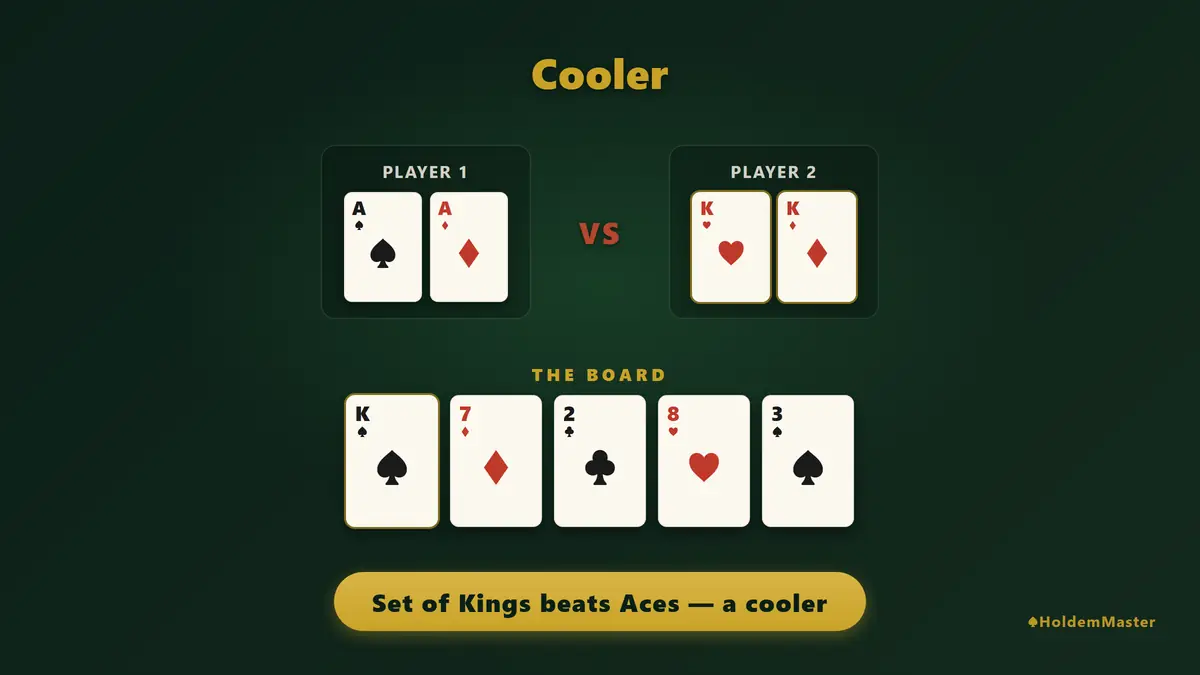
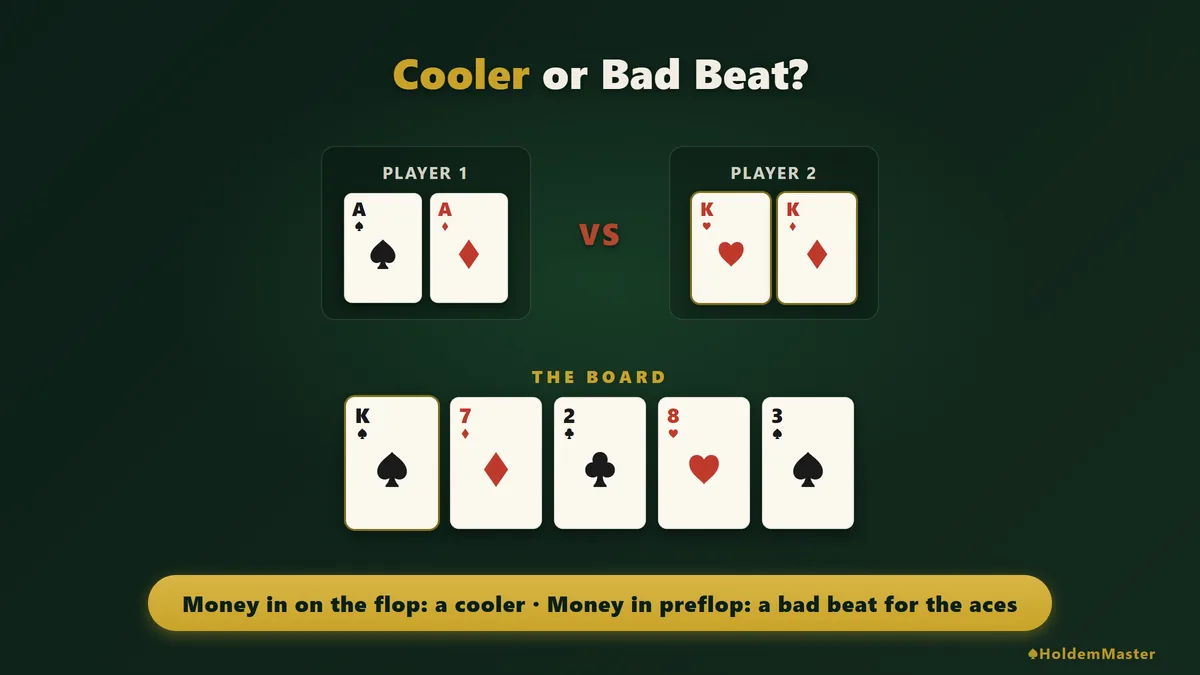
fix(images): 대기열 45 — 18로케일 공용 이미지 2장 §13 정정 + 대기열 41 ③ 판정 등재
- holdem-hand-rankings-board-puzzle.webp: AI 실사판이 보드 6장(K♠K♦K♥A♦A♠2♠ — A♦ 잉여)이라 練習3 「포켓 AA → 더 큰 풀하우스」 분기가 붕괴(zh-hant §5-33) → HTML+Playwright 재렌더(scripts/gen-…html 신설) · 보드 정확히 K♠ K♦ K♥ A♠ 2♠ + 홀카드 뒷면 2장 · 58KB → 18KB
- holdem-cooler-vs-badbeat.webp: 제목 「Cooler」·배너 「Set of Kings beats Aces — a cooler」가 爆冷門 상황을 쿨러로 단정(zh-hant §5-26) → 「Cooler or Bad Beat?」 + 「Money in on the flop: a cooler · Money in preflop: a bad beat for the aces」 · 워터마크 배너 겹침 해소
- 두 장 Read 육안 검수(철자·카드 중복 0) · check:images ✅ · check:image-reuse 🔴 0
- docs/locale-intentional-diffs.md: zh-hant blind-meaning 행동 순서 FAQ 부재 = 의도적(본문 H2 표가 답) 등재 — MA-121 ③ 회신 근거. MA-121 ④(진행 파일 「헤드 머지 대기」 낡음)는 이미 갱신돼 잔존 0

Claude-Session: https://claude.ai/code/session_01VCSUybNMmpLpknJtQS54FD

diff --git a/scripts/gen-holdem-hand-rankings-board-puzzle.html b/scripts/gen-holdem-hand-rankings-board-puzzle.html
@@ -1,0 +1,64 @@
+<!DOCTYPE html>
+<html lang="en">
+<head>
+<meta charset="UTF-8">
+<title>Read the Board</title>
+<style>
+  * { margin: 0; padding: 0; box-sizing: border-box; }
+  html, body { background: #0B1F17; }
+  .stage {
+    width: 1200px; height: 675px; overflow: hidden; position: relative; padding: 44px;
+    background: radial-gradient(ellipse 900px 500px at 50% -10%, rgba(46,125,70,0.26), rgba(46,125,70,0) 65%),
+                linear-gradient(160deg, #0B1F17 0%, #13291D 100%);
+    font-family: -apple-system, BlinkMacSystemFont, "Segoe UI", Roboto, Helvetica, Arial, sans-serif;
+    display: flex; flex-direction: column; align-items: center; justify-content: space-between;
+  }
+  .kicker { color: #C9A227; font-size: 15px; font-weight: 700; letter-spacing: .28em; text-transform: uppercase; text-align: center; margin-bottom: 8px; }
+  h1 { color: #F2EEE3; font-size: 44px; font-weight: 800; text-align: center; text-shadow: 0 2px 12px rgba(0,0,0,.45); }
+  h1 .gold { color: #C9A227; }
+  .board-wrap { position: relative; display: flex; flex-direction: column; align-items: center; gap: 14px; }
+  .group-label { color: #C9A227; font-size: 17px; font-weight: 800; letter-spacing: 4px; }
+  .cards { display: flex; gap: 16px; }
+  .card { position: relative; width: 108px; height: 154px; background: linear-gradient(175deg,#FDFBF4 0%,#F2EEE3 100%); border-radius: 10px; box-shadow: 0 6px 14px rgba(0,0,0,.45), 0 1px 3px rgba(0,0,0,.3); }
+  .card .corner { position: absolute; top: 8px; left: 10px; font-size: 26px; font-weight: 800; line-height: 1; text-align: center; }
+  .card .corner .csuit { display: block; font-size: 18px; line-height: 1; margin-top: 1px; }
+  .card .big { position: absolute; top: 50%; left: 50%; transform: translate(-42%,-44%); font-size: 64px; line-height: 1; }
+  .card.back { background: repeating-linear-gradient(45deg,#7a1420 0 10px,#5c0f18 10px 20px); border: 3px solid #F2EEE3; }
+  .black { color: #1a1a1a; } .red { color: #c0392b; }
+  .hand-wrap { position: relative; display: flex; flex-direction: column; align-items: center; gap: 10px; }
+  .cards-sm { display: flex; gap: 10px; }
+  .card-sm { width: 74px; height: 106px; border-radius: 8px; }
+  .prompt { color: #F2EEE3; opacity: .85; font-size: 19px; font-weight: 600; text-align: center; letter-spacing: .3px; }
+  .wordmark { position: absolute; right: 44px; bottom: 44px; color: #C9A227; font-size: 15px; font-weight: 800; letter-spacing: .04em; opacity: .9; }
+</style>
+</head>
+<body>
+<div class="stage">
+  <div>
+    <div class="kicker">Puzzle 3</div>
+    <h1>Find your <span class="gold">best five</span> cards</h1>
+  </div>
+
+  <div class="board-wrap">
+    <div class="group-label">THE BOARD</div>
+    <div class="cards">
+      <div class="card"><div class="corner black">K<span class="csuit">&#9824;</span></div><div class="big black">&#9824;</div></div>
+      <div class="card"><div class="corner red">K<span class="csuit">&#9830;</span></div><div class="big red">&#9830;</div></div>
+      <div class="card"><div class="corner red">K<span class="csuit">&#9829;</span></div><div class="big red">&#9829;</div></div>
+      <div class="card"><div class="corner black">A<span class="csuit">&#9824;</span></div><div class="big black">&#9824;</div></div>
+      <div class="card"><div class="corner black">2<span class="csuit">&#9824;</span></div><div class="big black">&#9824;</div></div>
+    </div>
+  </div>
+
+  <div class="hand-wrap">
+    <div class="cards-sm">
+      <div class="card card-sm back"></div>
+      <div class="card card-sm back"></div>
+    </div>
+    <div class="prompt">Your two hole cards &mdash; do they make a full house?</div>
+  </div>
+
+  <div class="wordmark">&#9824;HoldemMaster</div>
+</div>
+</body>
+</html>

diff --git a/scripts/gen-holdem-cooler-vs-badbeat.html b/scripts/gen-holdem-cooler-vs-badbeat.html
@@ -2,7 +2,7 @@
 <html lang="en">
 <head>
 <meta charset="UTF-8">
-<title>Cooler</title>
+<title>Cooler or Bad Beat?</title>
 <style>
   * { margin: 0; padding: 0; box-sizing: border-box; }
   html, body { background: #0B1F17; }
@@ -136,17 +136,17 @@
     position: relative;
     background: linear-gradient(180deg, #D8B546 0%, #C9A227 100%);
     color: #0B1F17;
-    font-size: 25px;
+    font-size: 22px;
     font-weight: 900;
-    letter-spacing: 1px;
-    padding: 13px 38px;
+    letter-spacing: 0.6px;
+    padding: 13px 34px;
     border-radius: 44px;
     box-shadow: 0 4px 16px rgba(201,162,39,0.4);
     white-space: nowrap;
   }
   .wordmark {
     position: absolute;
-    right: 44px; bottom: 44px;
+    right: 44px; bottom: 12px;
     color: #C9A227;
     font-size: 15px;
     font-weight: 700;
@@ -159,7 +159,7 @@
 <div class="stage">
   <div class="glow"></div>
 
-  <div class="title"><span class="g">Cooler</span></div>
+  <div class="title"><span class="g">Cooler</span> or Bad Beat?</div>
 
   <div class="players">
     <div class="player">
@@ -190,7 +190,7 @@
     </div>
   </div>
 
-  <div class="badge">Set of Kings beats Aces &mdash; a cooler</div>
+  <div class="badge">Money in on the flop: a cooler &middot; Money in preflop: a bad beat for the aces</div>
 
   <div class="wordmark">&#9824;HoldemMaster</div>
 </div>

diff --git a/docs/locale-intentional-diffs.md b/docs/locale-intentional-diffs.md
@@ -74,3 +74,4 @@
 | 2026-09-09 | `holdem-starting-hands-chart` UTG 폴드 목록 「77, 88」 행 (pt) | **pt는 「66 e menores」** — EN 77/88 «13% 범위 가장자리» 정정을 옮길 행이 없음 | ✅ 결함 아님 — pt 행은 EN L115 「77–99까지 넓어진다」와 모순되지 않는다. 헤드 판정 09-09 (10) |
 | 2026-09-09 | `holdem-icm` FAQ 「흔한 ICM 실수 3」 · `holdem-bubble` 위성 「온라인 시계는 무료」 (de) | **de에 해당 FAQ·문장이 없다** | ✅ 결함 아님 — de 08-11 재저작 때 FAQ 세트가 갈림. 헤드 판정 09-09 (10) |
 | 2026-09-09 | `holdem-hand-rankings` EN H2 2개 「How Do You Memorize Poker Hands Fast?」·「Are Poker Hand Rankings the Same in Every Game?」 (zh-hant) | **zh-hant에 이 H2 2개가 없다** | ✅ 의도적 — 2026-07 번역 시점부터 없던 구조 · DFS `牌型記憶` 계열 4종 볼륨 null · H2 ② 내용(短牌·奧馬哈 «剛好用兩張»·「90%」)은 본문에 흡수됨(zh-hant 회차 7 §5-38 · 헤드 등재 09-09 (11)) |
+| 2026-09-09 | `holdem-blind-meaning` FAQ 「대소 블라인드 행동 순서」 (zh-hant) | **EN FAQ 「Does the big blind or small blind go first?」(zh L205 有)가 zh-hant FAQ 세트에 없다**(en 8문 · zh 10문 · zh-hant 11문) | ✅ 의도적 — zh-hant FAQ 11문은 회차 1 현지 재구성(1 BB 是多少 · 底注 · 小盲位吃虧 등 EN에 없는 3문 포함)이고, 행동 순서는 H2 「大小盲規則：誰下、什麼時候下」의 표(翻牌前/翻牌後 順序 행) + 「提醒」 블록이 본문에서 답한다. 결손 아님. 헤드 판정 09-09 (12) · 검수장 MA-121 ③ 회신 |
